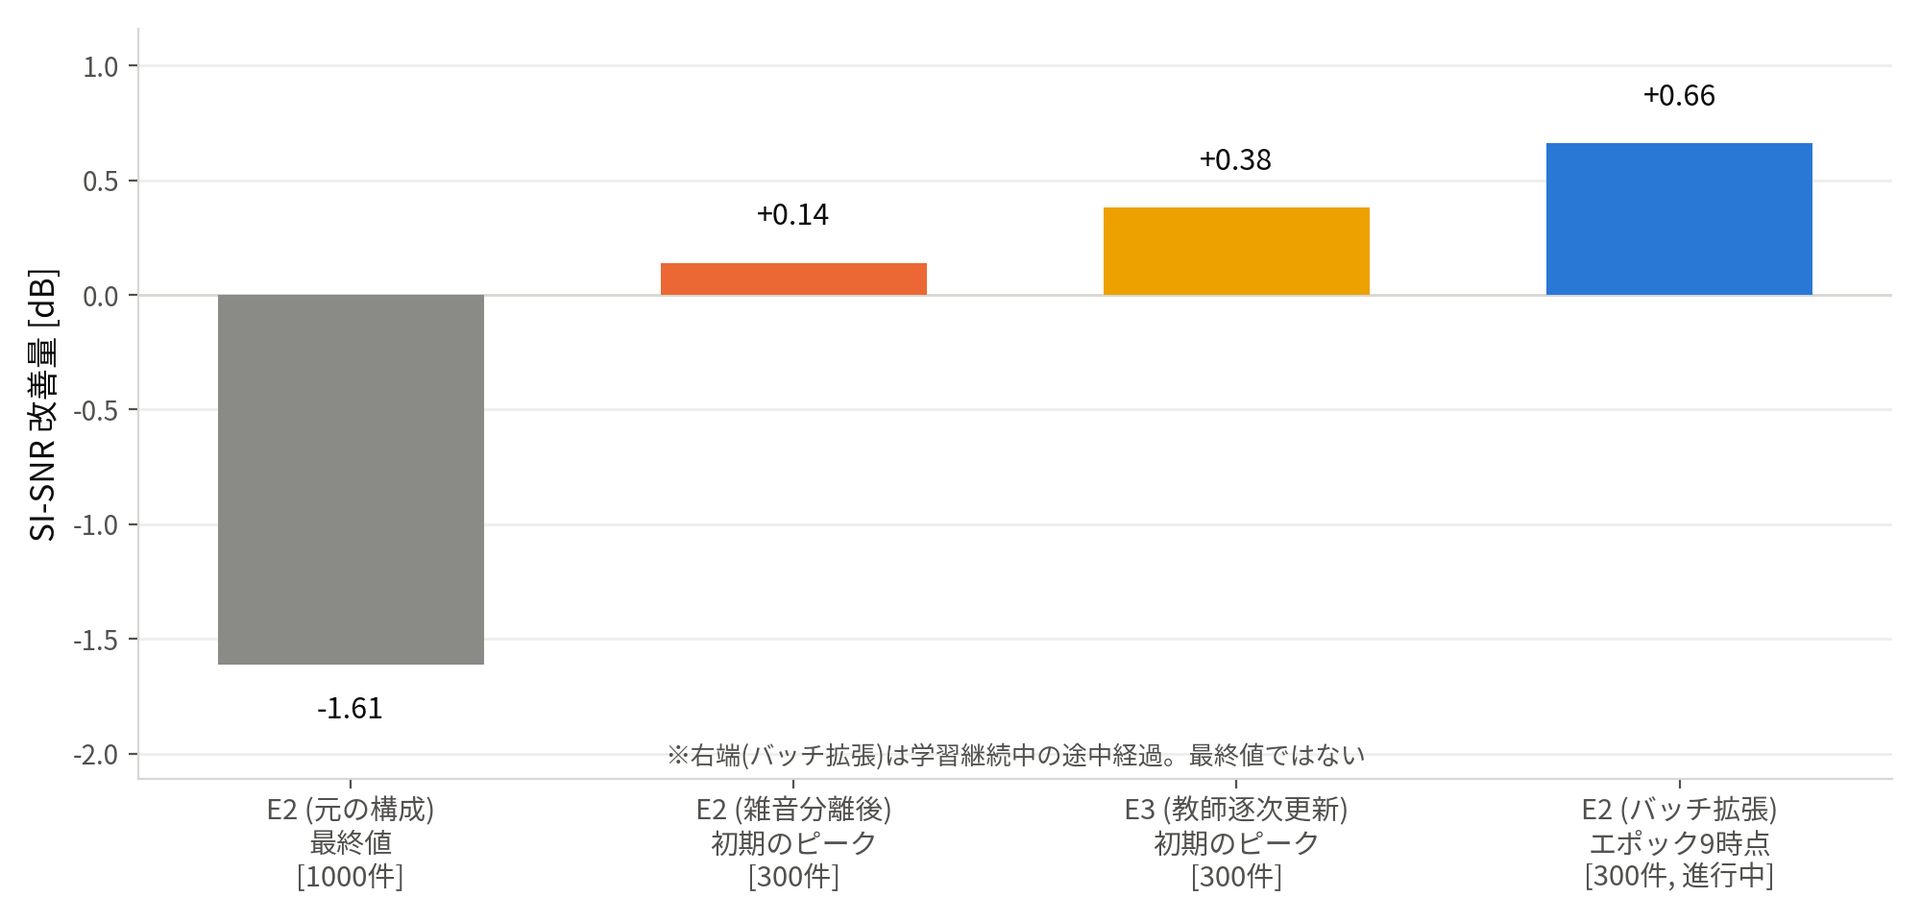
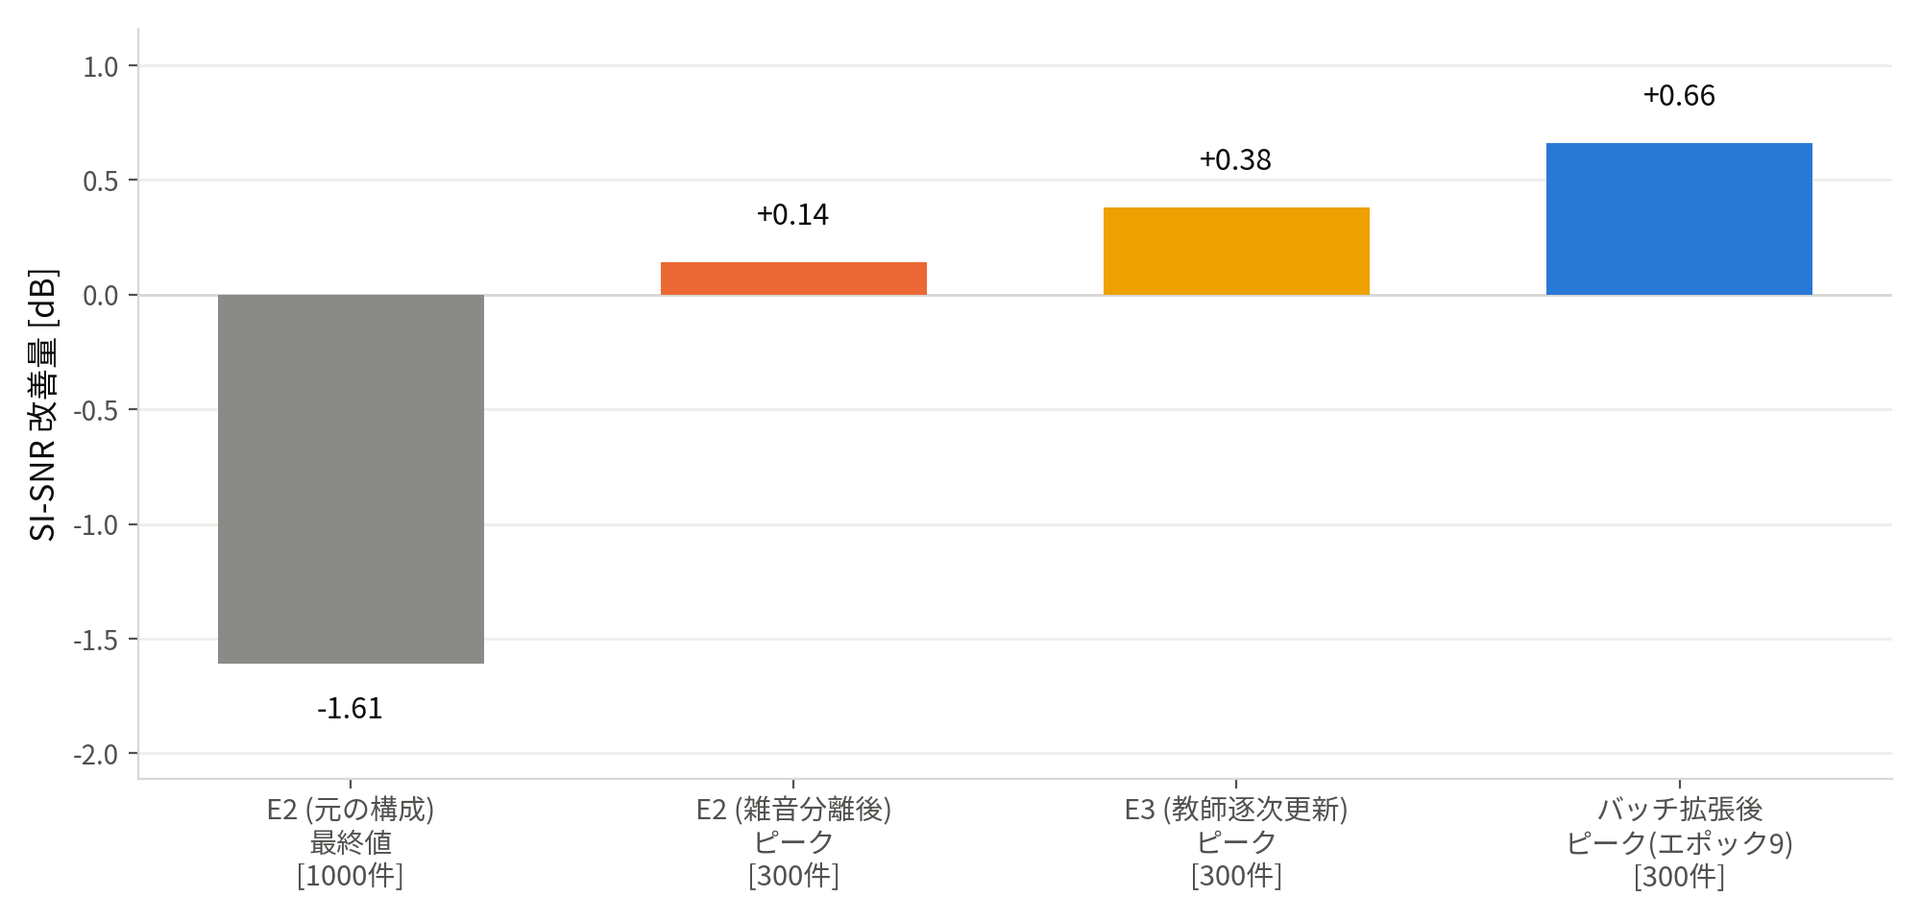
バッチ拡張後もピーク→悪化を確認、実験を打ち切り安全網を追加(DEC-018)
バッチサイズ拡張の検証実験で、実データ品質がエポック9で+0.66dB(全実験
最高値)に達したあと、エポック11で+0.34dB、エポック12で-0.29dBと同じ
パターンで悪化することを確認した。3つの独立した設定(小バッチ教師固定/
小バッチ教師更新/大バッチ教師固定)すべてで同じ現象が再現されたため、
これ以上の構成変更は行わず結果を確定させることにした(ユーザー承認)。

- docs/03_decision_log.md: DEC-018として経緯・判断を記録
- docs/06_change_log.md, docs/07_results.md: 対応する記録を追加
- docs/08_presentation_outline.md: 結果を確定版として書き直し(7-A/7-B
  の分岐を解消)
- scripts/train_remixit.py: 安全網として各エポックのモデル重みを
  epochs/epoch{N}.pth に個別保存する処理を追加(教師との一致度で
  上書きされるbest.pthとは別に、実データ評価用に後から参照できるように)
- scripts/make_slides_figures.py: fig3を確定値に更新、fig5(バッチ拡張後
  もピーク→悪化が再現された折れ線グラフ)を追加

diff --git a/scripts/make_slides_figures.py b/scripts/make_slides_figures.py
@@ -105,17 +105,15 @@ plt.close(fig)
 # ── 図3: 診断の過程で観測された実データ品質のピーク値 ──────────────
 fig, ax = plt.subplots(figsize=(10, 4.8), dpi=200)
 labels = ["E2 (元の構成)\n最終値\n[1000件]",
-          "E2 (雑音分離後)\n初期のピーク\n[300件]",
-          "E3 (教師逐次更新)\n初期のピーク\n[300件]",
-          "E2 (バッチ拡張)\nエポック9時点\n[300件, 進行中]"]
+          "E2 (雑音分離後)\nピーク\n[300件]",
+          "E3 (教師逐次更新)\nピーク\n[300件]",
+          "バッチ拡張後\nピーク(エポック9)\n[300件]"]
 values = [-1.61, 0.14, 0.38, 0.66]
 colors = [GRAY, ORANGE, YELLOW, BLUE]
 bar_with_labels(ax, range(len(labels)), values, colors)
 ax.set_xticks(range(len(labels)))
 ax.set_xticklabels(labels, fontsize=10.5)
 ax.set_ylabel("SI-SNR 改善量 [dB]", fontsize=12)
-ax.text(0.5, 0.02, "※右端(バッチ拡張)は学習継続中の途中経過。最終値ではない",
-        transform=ax.transAxes, ha="center", fontsize=9.5, color=TEXT_MUTED)
 fig.tight_layout()
 fig.savefig(OUT / "fig3_diagnosis_progress.png")
 plt.close(fig)
@@ -130,6 +128,25 @@ ax.set_xticklabels(stages, fontsize=12)
 ax.set_ylabel("SI-SNR 改善量 [dB]", fontsize=12)
 fig.tight_layout()
 fig.savefig(OUT / "fig4_internal_vs_real_divergence.png")
+plt.close(fig)
+
+# ── 図5: バッチ拡張後もピーク→悪化は再現された(エポック9→11→12) ──
+fig, ax = plt.subplots(figsize=(8, 4.8), dpi=200)
+epochs = [9, 11, 12]
+values5 = [0.66, 0.34, -0.29]
+ax.plot(epochs, values5, color=BLUE, linewidth=2, marker="o", markersize=8, zorder=3)
+for e, v in zip(epochs, values5):
+    ax.annotate(f"{v:+.2f} dB", (e, v), textcoords="offset points",
+                xytext=(0, 12 if v == max(values5) else -18), ha="center", fontsize=11, color=TEXT)
+ax.axhline(0, color="#d8d7d2", linewidth=1, zorder=1)
+ax.grid(axis="y", color="#eeeeec", linewidth=1, zorder=0)
+ax.set_axisbelow(True)
+ax.set_xticks(epochs)
+ax.set_xlabel("エポック(バッチサイズ拡張後)", fontsize=12)
+ax.set_ylabel("SI-SNR 改善量 [dB]", fontsize=12)
+ax.set_xlim(8, 13)
+fig.tight_layout()
+fig.savefig(OUT / "fig5_bigbatch_peak_then_decline.png")
 plt.close(fig)
 
 print("生成した図:")

diff --git a/scripts/train_remixit.py b/scripts/train_remixit.py
@@ -193,7 +193,13 @@ def main():
         save_checkpoint(out / "last.pth", student, cfg["model_config"], epoch, vloss, **extra)
         if patience == 0:
             save_checkpoint(out / "best.pth", student, cfg["model_config"], epoch, vloss)
-        elif patience >= cfg["early_stop_patience"]:
+        # 「教師との一致度」で選ぶbest.pthは実分離品質のbestとは限らない(2026-07-30の
+        # 観測: バッチサイズを上げても、内部指標が改善し続ける一方で実データの品質は
+        # 早期にピークを迎えてその後悪化する現象が繰り返された)。best/last だけでは
+        # 後から上書きされて実データ上のピークのエポックを再現できなくなるため、
+        # 各エポックのモデル重みだけを別途残しておく(optimizer等は含めず軽量に)
+        save_checkpoint(out / "epochs" / f"epoch{epoch:03d}.pth", student, cfg["model_config"], epoch, vloss)
+        if patience >= cfg["early_stop_patience"]:
             print(f"early stop at epoch {epoch} (best {best:.2f} since last teacher update)")
             break
     if wb:

diff --git a/docs/08_presentation_outline.md b/docs/08_presentation_outline.md
@@ -1,6 +1,6 @@
-# 発表資料の骨子 (下書き, 2026-07-29時点)
+# 発表資料の骨子 (下書き, 2026-07-30時点で確定)
 
-- 発表日 2026-08-10 に向けた構成案。確定した数値と、まだ結果待ちの部分を分けて書く
+- 発表日 2026-08-10 に向けた構成案。E0〜E1、およびE2/E3(バッチサイズ拡張含む)の結果は確定した(DEC-018)
 - スライド化する際はこの順番のまま使える想定。詳細な数値・根拠は各スライド案の下にリンクした資料を見ること
 
 ## 1. タイトル・一言でいうと
@@ -44,24 +44,18 @@
 
 - 同じ雑音つきデータで、正解ラベルを使って教師あり学習した場合の上限: **SI-SNR改善量13.23dB**
 - 教師そのまま(9.09dB)との差、約4.1dBが「正解なしでRemixITがどこまで埋められるか」の目標
-- 図: [figures/fig2_main_ladder.png](figures/fig2_main_ladder.png)(入力→E0→E2→E1の並び。現時点でのE2は元の構成の最終値−1.61dBを暫定表示)
+- 図: [figures/fig2_main_ladder.png](figures/fig2_main_ladder.png)(入力→E0→E2→E1の並び)
 - 詳細: [07_results.md](07_results.md) E1の節
 
-## 7. 結果3: E2/E3(RemixIT)— ここが本題、二通りの見せ方を用意
-
-### 7-A. うまくいった場合(バッチサイズ拡張の効果が確認できた場合)
-
-- 見せ方: E0(9.09dB)→ E2/E3(改善後の値)→ E1(13.23dB)の並びで、正解なしでギャップの一部を埋められたことを示す
-- 併せて、途中でぶつかった壁とその解決の過程も「工学的な貢献」として語る(次項)
-- **この節は結果が出てから具体的な数値で埋める**
-
-### 7-B. 明確な改善が見られなかった場合(限界を示す結果として組む)
+## 7. 結果3: E2/E3(RemixIT)— ここが本題。確定した結論: 明確な改善は得られなかった
 
 - 主張: 「教師の性能が中程度(9.09dB)で、言語+雑音という二重のドメインギャップがある条件では、素朴なRemixIT拡張は正解なしで改善を出すのが難しい」
+- 数値: E0(9.09dB)→ E2(RemixIT、元の構成の最終値、−1.61dB)→ E1(13.23dB)。**正解なしの自己学習がむしろ教師より悪化した**
+- バッチサイズ拡張を含む3つの独立した設定すべてで、「学習序盤に実データ品質がピークを迎え、その後悪化する」という同じ現象が繰り返された(ピークの値: 小バッチ教師固定+0.14dB → 小バッチ教師更新+0.38dB → 大バッチ教師固定+0.66dB。図: [figures/fig3_diagnosis_progress.png](figures/fig3_diagnosis_progress.png))。バッチサイズを上げるとピークは上がったが、現象そのものは解消しなかった(図: [figures/fig5_bigbatch_peak_then_decline.png](figures/fig5_bigbatch_peak_then_decline.png))
 - この結果自体が価値を持つ理由:
   - RemixIT原論文は軽量な時間領域モデル・単一のドメインギャップ(音声強調)でしか検証していない。より難しい条件(2話者分離+二重ギャップ)での限界を明らかにしたこと自体が新しい知見
-  - 単に「動かなかった」ではなく、**原因を段階的に切り分けた過程**が研究として語れる(次項8)
-- 数値: E0(9.09dB)→ E2最終(−1.61dB)→ E1(13.23dB)。正解なしの自己学習がむしろ教師より悪化した、という対比を明確に見せる
+  - 単に「動かなかった」ではなく、**原因を段階的に切り分けた過程**が研究として語れる(次項9)
+  - 3つの独立した設定で同じ現象が再現されたことで、偶然ではなく本質的な限界だと言える
 
 ## 8. 関連研究との位置づけ(確定、結果によらず語れる内容)
 
@@ -76,19 +70,19 @@
 - 検証1: mixture consistency補正を試したが、むしろ悪化した(環境雑音を話者推定に混入させるため)。「音量の異常はSI-SNRのスケール不変性のため直接の原因ではない」と正しく切り分けられた
 - 発見2: リミキシングで話者2のスロットを別録音に入れ替えると、環境雑音が二重に重なる非現実的な疑似混合になっていた(DEC-016)
 - 対応: 雑音を第3の出力として明示的に分離する構成に変更 → 学習序盤は改善したが、学習が進むと再び悪化する傾向が見えた
-- セカンドオピニオン(独立したAIエージェントによるレビュー)を活用し、バッチサイズがRemixITの理論的前提に対して小さすぎる可能性など、追加の要因を洗い出した
-- 図: [figures/fig3_diagnosis_progress.png](figures/fig3_diagnosis_progress.png)(原因を切り分けるたびに実データ品質のピークが改善している様子)、[figures/fig4_internal_vs_real_divergence.png](figures/fig4_internal_vs_real_divergence.png)(「教師との一致度」と実品質の乖離)
+- セカンドオピニオン(独立したAIエージェントによるレビュー)を活用し、バッチサイズを2→4に拡張(AMP併用)。ピークは+0.14→+0.38→+0.66dBと改善したが、同じ「ピーク→悪化」の現象は解消しなかった(エポック9: +0.66dB → エポック11: +0.34dB → エポック12: −0.29dB)
+- 図: [figures/fig3_diagnosis_progress.png](figures/fig3_diagnosis_progress.png)(原因を切り分けるたびに実データ品質のピークが改善している様子)、[figures/fig4_internal_vs_real_divergence.png](figures/fig4_internal_vs_real_divergence.png)・[figures/fig5_bigbatch_peak_then_decline.png](figures/fig5_bigbatch_peak_then_decline.png)(「教師との一致度」と実品質の乖離、バッチ拡張後も再現)
+- 教訓: 「教師との一致度」でチェックポイントを選ぶ仕組みだと、実データ上のピークのエポックが後から上書きされて失われる。今後のために各エポックの重みを個別保存する仕組みを追加した(DEC-018)
 
-## 10. 考察・今後の展望(確定部分+結果待ち部分)
+## 10. 考察・今後の展望(確定)
 
 - 確定: 言語の違い単体は、クリーンな条件では話者分離の障害にならない(E0の発見)
-- 確定: 教師の性能が中程度の場合、正解なしの自己学習で上限との差を埋めるのは容易ではない(RemixITの理論的前提や役割の固定など、複数の要因が絡む。分野全体でも未解決、8節参照)
-- 結果待ち: バッチサイズ拡張後の傾向次第で、「効果があった」と「今回の条件・期間では効果を確認できなかった」のどちらかを書く
+- 確定: 教師の性能が中程度の場合、正解なしの自己学習で上限との差を埋めるのは容易ではない。3つの独立した設定(小バッチ教師固定/小バッチ教師更新/大バッチ教師固定)すべてで同じ現象が再現され、偶然ではなく本質的な限界だと確認できた(RemixITの理論的前提・役割の固定・疑似ターゲットの質など、複数の要因が絡む。分野全体でも未解決、8節参照)
 - 今後の展望: 教師の質そのものを上げる、雑音残差の質を改善する、教師更新の頻度を変える、といった方向性(実施はしていないが今後の課題として言及)
 
 ## 11. まとめスライド案
 
 - 研究課題・手法・データは確定内容をそのまま
 - 「言語の違いは障害にならない」という副次的発見は確定の成果として必ず入れる
-- E2/E3の結果は、出た数値に応じて7-Aか7-Bのどちらかを使う
-- 関連研究との位置づけ(8節)・診断の過程(9節)は結果によらず、方法論的な貢献として必ず入れる
+- E2/E3の結果: 正解なしの自己学習は教師そのままより悪化した。3つの独立した設定で同じ現象が再現されたことを明確に見せる
+- 関連研究との位置づけ(8節)・診断の過程(9節)は、方法論的な貢献として必ず入れる

diff --git a/docs/07_results.md b/docs/07_results.md
@@ -85,3 +85,12 @@
 - **評価用データでのSI-SNR改善量: −1.61 dB**(中央値−1.42、標準偏差2.27。`exp/e2_remixit_static/summary_final_test.json`)。学習途中(エポック22)の値と変わらず、頭打ちだったことを確認した
 - まとめ: E0(教師そのまま、9.09dB)→ E2(静的教師でのRemixIT、−1.61dB)と、**正解なしの自己学習によってむしろ教師より悪化した**。教師の性能が中程度(9.09dB)の状態で教師を固定したままリミキシングを続けると、生徒は教師の推定の誤りごと学習してしまい、実際の分離品質にはつながらないことを示す結果
 - E1(教師あり上限、13.23dB)との比較で見ると、E2は「正解なしでギャップをどこまで埋めたか」という問いに対して、現時点では**ギャップを埋めるどころか広げてしまった**。E3(教師逐次更新)がこの問題を緩和できるかが今後の焦点
+
+## 雑音を第3出力として分離する構成変更(DEC-016)とバッチサイズ拡張の検証(DEC-017/018) (2026-07-30)
+
+- DEC-016(雑音を第3の出力として明示的に分離する構成変更)のあと、E2・E3を新構成で再学習した。学習序盤は実データでの品質がプラスに転じたが(E2: +0.14dB、E3: +0.38dB)、学習が進むと再び悪化する傾向が見えた(DEC-016参照)
+- セカンドオピニオン(codex/GPT-5.5)から「バッチサイズ2はRemixITの理論的前提(誤差相関の平均化)に対して小さい」との指摘を受け、AMP(自動混合精度)でメモリを浮かせてバッチサイズを2→4に拡張する検証実験(`exp/e2_bigbatch_check`)を行った(DEC-017)
+- 検証実験の結果: 実データでのSI-SNR改善量は、エポック9で**+0.66dB**(全実験を通じて最高値)まで上昇したが、エポック11で+0.34dB、エポック12で−0.29dBと、その後同じように悪化した
+- **確定した知見**: 3つの独立した設定(小バッチ・教師固定/小バッチ・教師逐次更新/大バッチ・教師固定)すべてで、「学習序盤に実データでの品質がピークを迎え、その後悪化する」という同じ形の現象が繰り返された。バッチサイズを上げるとピークの値は上がり(+0.14→+0.38→+0.66dB)反転するタイミングも少し遅くなったが、現象そのものは解消しなかった。これはもう偶然ではなく、この研究条件(教師の性能が中程度・言語+雑音の二重ドメインギャップ)における一貫した現象と見なせる(詳細: DEC-018、関連研究との対応は[09_related_work_review.md](09_related_work_review.md))
+- 教訓: 「教師との一致度」を基準にチェックポイントを選ぶ仕組みだと、実データ上のピークのエポックが後から上書きされて失われる。今後の実験のために、各エポックのモデル重みを個別に残す仕組みを追加した(DEC-018)
+- 今後の方針(ユーザー承認): これ以上の構成変更・チューニングは行わず、この繰り返し観測された現象を確定した結果として発表資料の作成に移る

diff --git a/docs/03_decision_log.md b/docs/03_decision_log.md
@@ -198,6 +198,21 @@
 - 次のアクション: メモリが収まることを確認 → 数時間〜1日の短い検証実験でtrendを見る → 明確に改善傾向が見えれば残り日数で本学習に切り替え、曖昧なら現行のE2/E3の結果で発表を組み立てる
 - 実測結果(2026-07-29): batch_size=4, segment_sec=3.0, AMPありで**ピークメモリ6.91GB**(11GB中)と、変更前のbatch2×4秒(8.2-8.3GB)より余裕を持って収まることを確認した。GPU0(E2完了で解放)で短い検証実験を開始した(`exp/e2_bigbatch_check`、教師固定・静的教師のみでバッチサイズの効果を単独で見る)
 
+## DEC-018: RemixITの追加チューニングを打ち切り、結果を確定させる (2026-07-30)
+
+- 状態: 決定
+- 背景: DEC-017のバッチサイズ拡張実験(`exp/e2_bigbatch_check`、batch_size 2→4・segment_sec 4.0→3.0・AMP)の経過を追ったところ、次の結果になった
+  - 実データでのSI-SNR改善量: エポック9で+0.66dB(これまでの全実験を通じて最高値)→ エポック11(best.pth)で+0.34dB → エポック12(last.pth)で−0.29dB
+  - つまりバッチサイズを上げても、「学習序盤にピークを迎え、その後実分離品質が悪化する」という現象そのものは解消しなかった。ピークの値が上がり(+0.66dB)、反転するタイミングが少し遅くなった(エポック9頃)だけである
+- 分析: 3つの独立した設定で同じ形の現象が繰り返された
+  1. 小バッチ・教師固定(E2, DEC-016後): ピーク+0.14dB → 悪化
+  2. 小バッチ・教師逐次更新(E3, DEC-016後): ピーク+0.38dB → 悪化
+  3. 大バッチ・教師固定(バッチサイズ拡張後): ピーク+0.66dB → 悪化
+  - もはや偶然ではなく、この研究設定(教師の性能が中程度・言語+雑音の二重ドメインギャップ)における一貫した現象と見なせる。関連研究の調査結果([09_related_work_review.md](09_related_work_review.md))とも整合する
+- 決定(ユーザー承認): これ以上の構成変更・チューニングは行わない。上記の繰り返し観測された現象を確定した知見とし、発表資料の作成に移る
+  - 惜しい点: 学習スクリプトが「教師との一致度」を基準にチェックポイントを選ぶ仕組みのため、エポック9(実データでの最良値)の重みは、その後のエポック10・11で(教師との一致度の上では)上書きされ、復元できなくなった
+- 対応(安全網、今後のため): `scripts/train_remixit.py`に、各エポックのモデル重みだけを`{out_dir}/epochs/epoch{N:03d}.pth`として個別に残す処理を追加した(optimizerの状態などは含めず軽量、1エポックあたり約20MB)。これにより今後は、どのエポックが実データ上のピークだったかを後から評価し直して確認できる。今回動いている実験(過去のコードで起動済み)には遡って適用できないが、今後の実験には有効
+
 ## DEC-012: GPUの使用ルール (2026-07-20)
 
 - 状態: 決定(ユーザー指示)

diff --git a/docs/06_change_log.md b/docs/06_change_log.md
@@ -57,6 +57,13 @@
 - 検証: 小さな模擬データで「保存→再開→続きから学習」が正しく動くことを、新しい形式・古い形式のチェックポイントの両方、E1・E2の両スクリプトで確認した
 - 適用結果: 実際に止まっていたジョブ(E1はエポック26まで完了、E2はエポック11まで完了していた)を止めて、この機能で再開した。GPU使用率は両方とも98〜99%に復帰した
 
+### train_remixit.py — 各エポックのモデル重みを個別保存する安全網を追加(2026-07-30, DEC-018)
+
+- 背景: バッチサイズ拡張の検証実験で、実データ上のピーク(エポック9、+0.66dB)を確認した直後、学習スクリプトが「教師との一致度」を基準にbest.pthを更新する仕組みのため、その後のエポック10・11で(教師との一致度の上では)上書きされ、実データ上のピークの重みを取り戻せなくなるという実害が出た
+- 対応: 毎エポックの終わりに、`{out_dir}/epochs/epoch{N:03d}.pth`としてモデル重みのみ(optimizer等は含めない)を個別保存するようにした。1ファイルあたり約20MBで、30エポックでも約600MB程度とNAS容量には全く問題にならない
+- 検証: 小さな模擬データで3エポック分実行し、`epochs/epoch000.pth`〜`epoch002.pth`が正しく作られることを確認した
+- 注意点: 既に起動済みの実験(旧コードで動いている)には遡って適用されない。今後新しく起動する実験から有効
+
 ### train_remixit.py に AMP(自動混合精度)を追加(2026-07-29)
 
 - 背景: セカンドオピニオン(codex/GPT-5.5)から、「バッチサイズ2はRemixITの理論的前提(リミキシングによる誤差相関の平均化)にとって小さすぎる可能性がある」との指摘を受けた。バッチサイズを上げたいが、2080Ti 11GBでは`batch_size=4`が既にOOMになることを過去に確認済み(DEC-013周辺の実測)
